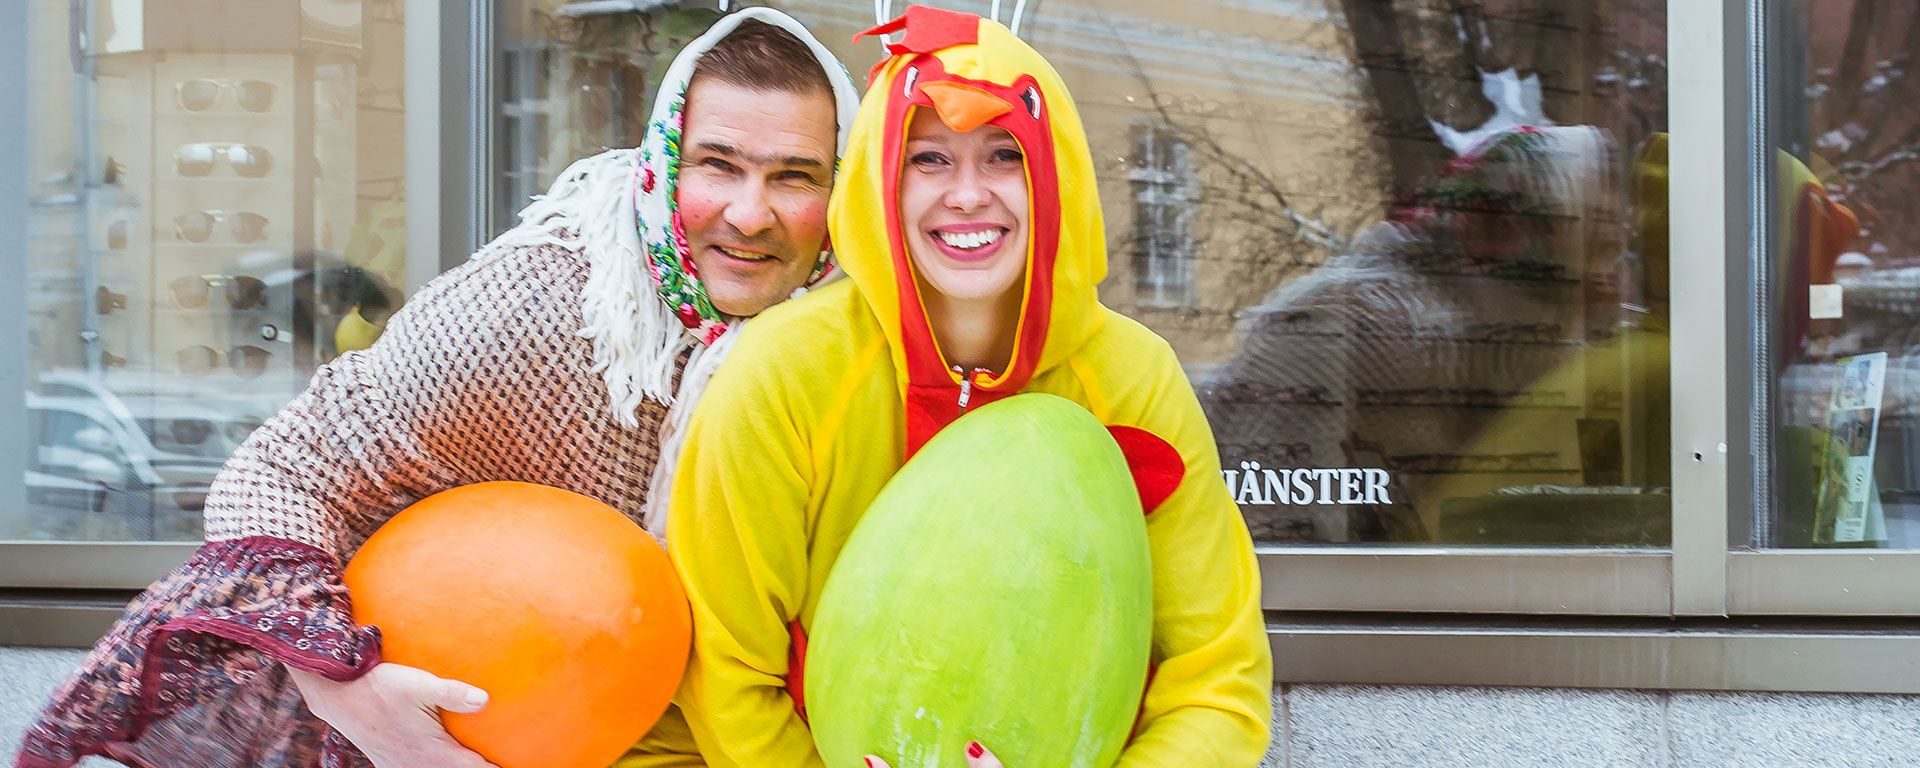
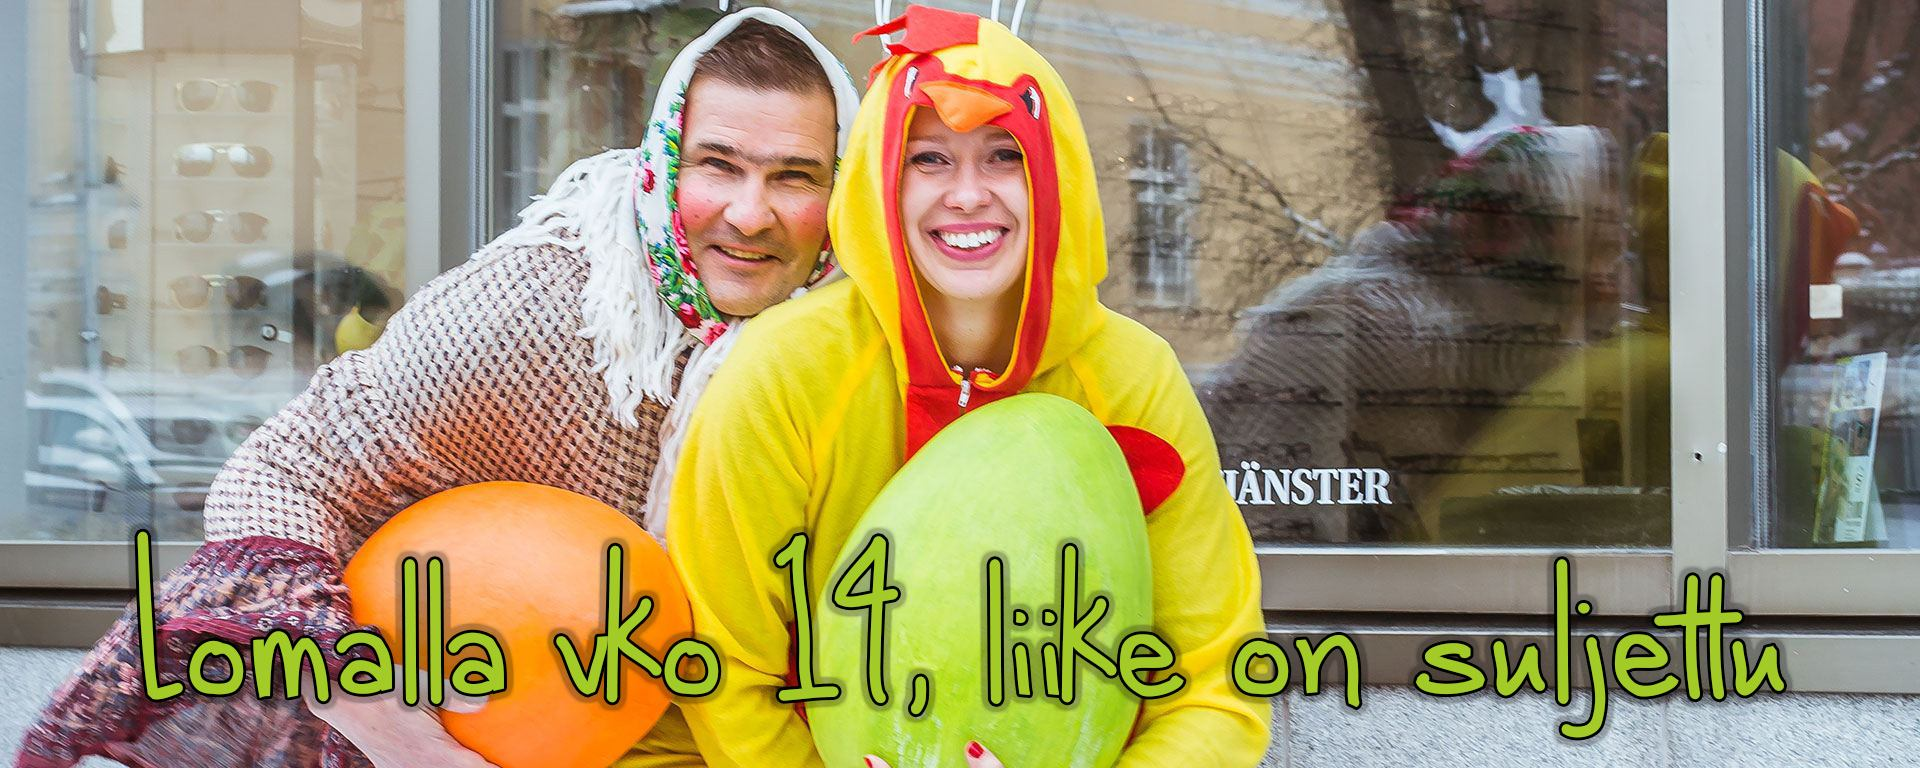
Header title as image

Changed region(s): [[0.0625, 0.6875, 0.9375, 0.9688]]

diff --git a/index.html b/index.html
@@ -35,7 +35,6 @@
               <div class="carousel-container">
                 <div class="carousel-item has-background is-active">
                   <img class="is-background" src="assets/img/sesonki-paasiainen.jpg" alt="" width="1920" height="768"/>
-                  <p class="title">Lomalla vko 14, liike on suljettu</p>
                 </div>
               </div>
             </div>
@@ -100,7 +99,6 @@
               <div class="carousel-container">
                 <div class="carousel-item has-background is-active">
                   <img class="is-background" src="assets/img/sesonki-paasiainen.jpg" alt="" width="1920" height="768"/>
-                  <p class="title">Lomalla vko 14, liike on suljettu</p>
                 </div>
               </div>
             </div>
